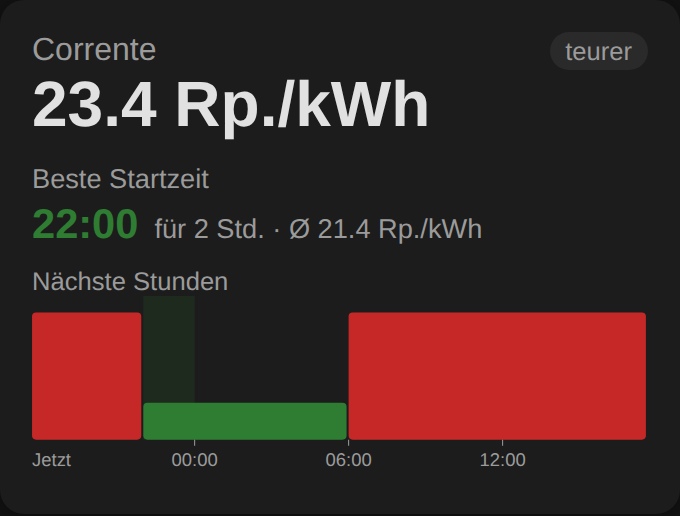
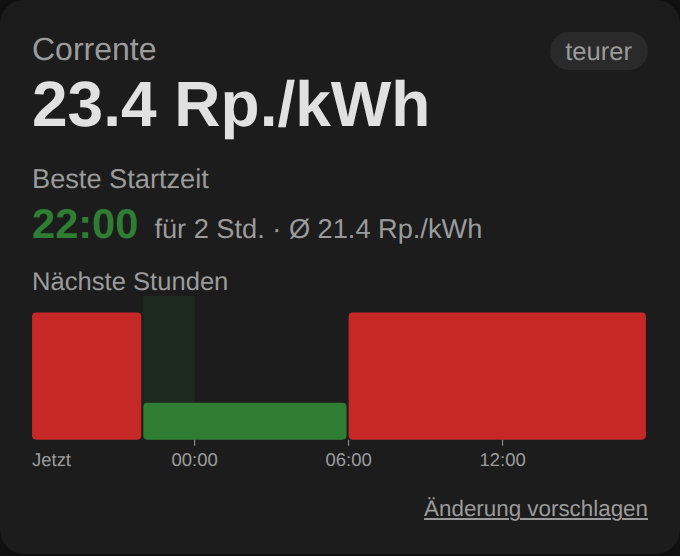
Link "Suggerisci una modifica" nelle opzioni e nella card; fonte dei dati sulla card
- Menu delle opzioni: descrizione con il link alle richieste
- Card: in fondo la fonte dei dati (attributo attribution: ElCom, "Fonte: GME") e il link
  "Suggerisci una modifica" (nascondibile con feedback: false), in EN/IT/DE/FR
- Testo superato corretto: "i contratti PUN sono in arrivo" (il PUN c'è dal 7 ottobre)
- Screenshot aggiornati, nuovo screenshot della tariffa dinamica EKZ; README, guida, roadmap
  e piano aggiornati

Claude-Session: https://claude.ai/code/session_01D7MDcvgtunehyx1ydpfKbP

diff --git a/custom_components/corrente/frontend/corrente-card.js b/custom_components/corrente/frontend/corrente-card.js
@@ -8,19 +8,24 @@
 const STRINGS = {
   en: { now: "Now", best: "Best time to start", for: "for", hours: "h", avg: "avg",
         next: "Next hours", cheap: "cheaper", dear: "dearer", unavailable: "Corrente: sensor not found",
-        startNow: "now", tomorrow: "tomorrow" },
+        startNow: "now", tomorrow: "tomorrow", suggest: "Suggest a change" },
   it: { now: "Adesso", best: "Momento migliore per avviare", for: "per", hours: "h", avg: "media",
         next: "Prossime ore", cheap: "più economico", dear: "più caro", unavailable: "Corrente: sensore non trovato",
-        startNow: "adesso", tomorrow: "domani" },
+        startNow: "adesso", tomorrow: "domani", suggest: "Suggerisci una modifica" },
   de: { now: "Jetzt", best: "Beste Startzeit", for: "für", hours: "Std.", avg: "Ø",
         next: "Nächste Stunden", cheap: "günstiger", dear: "teurer", unavailable: "Corrente: Sensor nicht gefunden",
-        startNow: "jetzt", tomorrow: "morgen" },
+        startNow: "jetzt", tomorrow: "morgen", suggest: "Änderung vorschlagen" },
   fr: { now: "Maintenant", best: "Meilleur moment pour démarrer", for: "pendant", hours: "h", avg: "moy.",
         next: "Prochaines heures", cheap: "moins cher", dear: "plus cher", unavailable: "Corrente : capteur introuvable",
-        startNow: "maintenant", tomorrow: "demain" },
+        startNow: "maintenant", tomorrow: "demain", suggest: "Suggérer une modification" },
 };
 
 const HOURS_SHOWN = 24;
+const SUGGEST_URL = "https://github.com/MichaelPito/ha-corrente/issues/new/choose";
+
+function escapeHtml(text) {
+  return String(text).replace(/[&<>"']/g, (c) => ({ "&": "&amp;", "<": "&lt;", ">": "&gt;", '"': "&quot;", "'": "&#39;" })[c]);
+}
 
 function strings(hass) {
   const lang = (hass && hass.language ? hass.language : "en").slice(0, 2);
@@ -140,6 +145,12 @@ class CorrenteCard extends HTMLElement {
     const level = (price - min) / span;
     const chip = level < 0.34 ? t.cheap : level > 0.66 ? t.dear : "";
     const title = this._config.title !== undefined ? this._config.title : "Corrente";
+    // The data source (e.g. "Fonte: GME", required by its terms) and a link for
+    // requests; "feedback: false" in the card's YAML hides the link.
+    const source = a.attribution ? `<span>${escapeHtml(a.attribution)}</span>` : "<span></span>";
+    const suggest = this._config.feedback === false ? "" :
+      `<a href="${SUGGEST_URL}" target="_blank" rel="noopener">${t.suggest}</a>`;
+    const footHtml = a.attribution || suggest ? `<div class="foot">${source}${suggest}</div>` : "";
 
     this.shadowRoot.innerHTML = `
       <style>
@@ -160,6 +171,8 @@ class CorrenteCard extends HTMLElement {
         rect.bestband { fill: var(--cheap); opacity: .15; }
         line.tick { stroke: var(--secondary-text-color); stroke-width: .5; }
         .msg { color: var(--error-color, #c62828); }
+        .foot { display: flex; justify-content: space-between; gap: 8px; margin-top: 8px; font-size: .7rem; color: var(--secondary-text-color); }
+        .foot a { color: inherit; white-space: nowrap; flex-shrink: 0; }
       </style>
       <ha-card>
         <div class="head"><span class="title">${title}</span>${chip ? `<span class="chip">${chip}</span>` : ""}</div>
@@ -167,6 +180,7 @@ class CorrenteCard extends HTMLElement {
         ${bestHtml}
         <div class="sub">${t.next}</div>
         <svg viewBox="0 0 ${width} ${height + 16}" role="img" aria-label="${t.next}">${bestBand}${bars}${ticks}</svg>
+        ${footHtml}
       </ha-card>`;
   }
 }

diff --git a/tests/test_config_flow.py b/tests/test_config_flow.py
@@ -6,7 +6,7 @@ from homeassistant.config_entries import SOURCE_USER
 from homeassistant.core import HomeAssistant
 from homeassistant.data_entry_flow import FlowResultType
 
-from custom_components.corrente.const import DOMAIN
+from custom_components.corrente.const import DOMAIN, ISSUES_URL
 
 
 async def test_three_band_flow_creates_entry(hass: HomeAssistant) -> None:
@@ -56,6 +56,8 @@ async def test_options_flow_changes_contract(hass: HomeAssistant) -> None:
 
     result = await hass.config_entries.options.async_init(entry.entry_id)
     assert result["type"] is FlowResultType.MENU
+    # The menu carries the "Suggest a change" link.
+    assert result["description_placeholders"]["issues_url"] == ISSUES_URL
     result = await hass.config_entries.options.async_configure(
         result["flow_id"], {"next_step_id": "contract"}
     )

diff --git a/custom_components/corrente/config_flow.py b/custom_components/corrente/config_flow.py
@@ -500,7 +500,11 @@ class CorrenteOptionsFlow(OptionsFlow):
 
     async def async_step_init(self, user_input: dict[str, Any] | None = None) -> ConfigFlowResult:
         """Change the contract or tariff, or the energy meter used for costs."""
-        return self.async_show_menu(step_id="init", menu_options=["contract", "meter", "appliance"])
+        return self.async_show_menu(
+            step_id="init",
+            menu_options=["contract", "meter", "appliance"],
+            description_placeholders=_PLACEHOLDERS,
+        )
 
     def _save(self, changes: dict[str, Any]) -> ConfigFlowResult:
         """Keep the options that this step does not change."""

diff --git a/docs/PIANO.md b/docs/PIANO.md
@@ -159,13 +159,13 @@ esperto. Le richieste diventano la roadmap pubblica.
   - ✅ **tariffe dinamiche svizzere** (in anticipo: erano previste per dicembre) dalle API dei gestori, formati 2026 e 2027; provate dal vivo con EKZ (media del giorno a 0,1 Rp dal totale ElCom) e Groupe E;
   - ✅ **correzione**: voci nazionali per Groupe E con rete dinamica o a due fasce (prima +2,3 Rp di troppo);
   - ✅ **correzione**: il file BKW (date con l'ora, comuni "#N/A") faceva fallire la lettura di tutte le tariffe BKW;
+  - ✅ link "Suggerisci una modifica" nelle opzioni e nella card, con la fonte dei dati in fondo alla card (per il GME è un obbligo); screenshot aggiornati;
   - 124 test.
   - **Prossimi pezzi:**
-    1. link "Suggerisci una modifica" nell'integrazione e nella card (ultimo punto aperto della v0.1);
-    2. icona e logo per l'elenco ufficiale (repo `home-assistant/brands`);
-    3. modulo per le richieste senza account GitHub;
-    4. versione v0.1.0 e note di rilascio;
-    5. CKW: tipo `integrated` e file delle tariffe (oggi risponde 403).
+    1. icona e logo per l'elenco ufficiale (repo `home-assistant/brands`);
+    2. modulo per le richieste senza account GitHub;
+    3. versione v0.1.0 e note di rilascio;
+    4. CKW: tipo `integrated` e file delle tariffe (oggi risponde 403).
 
 ## 8. Numeri di controllo
 

diff --git a/README.md b/README.md
@@ -7,6 +7,7 @@
 <p>
   <img src="docs/images/card-lugano-it.png" width="340" alt="Corrente card for a day/night tariff in Lugano">
   <img src="docs/images/card-pun-it.png" width="340" alt="Corrente card for an Italian PUN-indexed contract, quarter-hour prices">
+  <img src="docs/images/card-ekz-dynamic-de.png" width="340" alt="Corrente card for EKZ's dynamic tariff, quarter-hour prices">
 </p>
 
 ## What it does
@@ -64,6 +65,8 @@ The card is installed with the integration. Add it from the dashboard editor (se
 type: custom:corrente-card
 entity: sensor.corrente_price_now
 ```
+
+Options: `title` (default "Corrente", empty to hide) and `feedback: false` to hide the "Suggest a change" link. The data source (ElCom, GME) is shown at the bottom.
 
 ## Blueprint: start an appliance at the cheapest time
 

diff --git a/docs/ROADMAP.md b/docs/ROADMAP.md
@@ -15,7 +15,7 @@ Ideas and requests from users are collected through the [request forms](../../..
 - [x] UI-only setup (config flow), translations EN / IT / DE / FR
 - [x] Dashboard card: price now, next 24 h (cheap/dear colours), best time to start; loaded automatically by the integration, EN/IT/DE/FR, light and dark themes
 - [x] Switzerland: change tariffs from the options
-- [ ] "Suggest a change" link inside the integration and the card
+- [x] "Suggest a change" link inside the integration (setup and options) and the card, with the data source shown on the card
 
 - [x] README with screenshots, installation, sensors, card and an automation example; Italian guide
 

diff --git a/docs/guida-it.md b/docs/guida-it.md
@@ -56,7 +56,7 @@ type: custom:corrente-card
 entity: sensor.corrente_price_now
 ```
 
-La card mostra il prezzo adesso, le prossime 24 ore a colori (verde più economico, rosso più caro) e il momento migliore per avviare un apparecchio di 2 ore.
+La card mostra il prezzo adesso, le prossime 24 ore a colori (verde più economico, rosso più caro) e il momento migliore per avviare un apparecchio di 2 ore. In basso trovi la fonte dei dati e il link **Suggerisci una modifica**; per nasconderlo aggiungi `feedback: false`.
 
 ## Hai un'idea o un problema?
 
